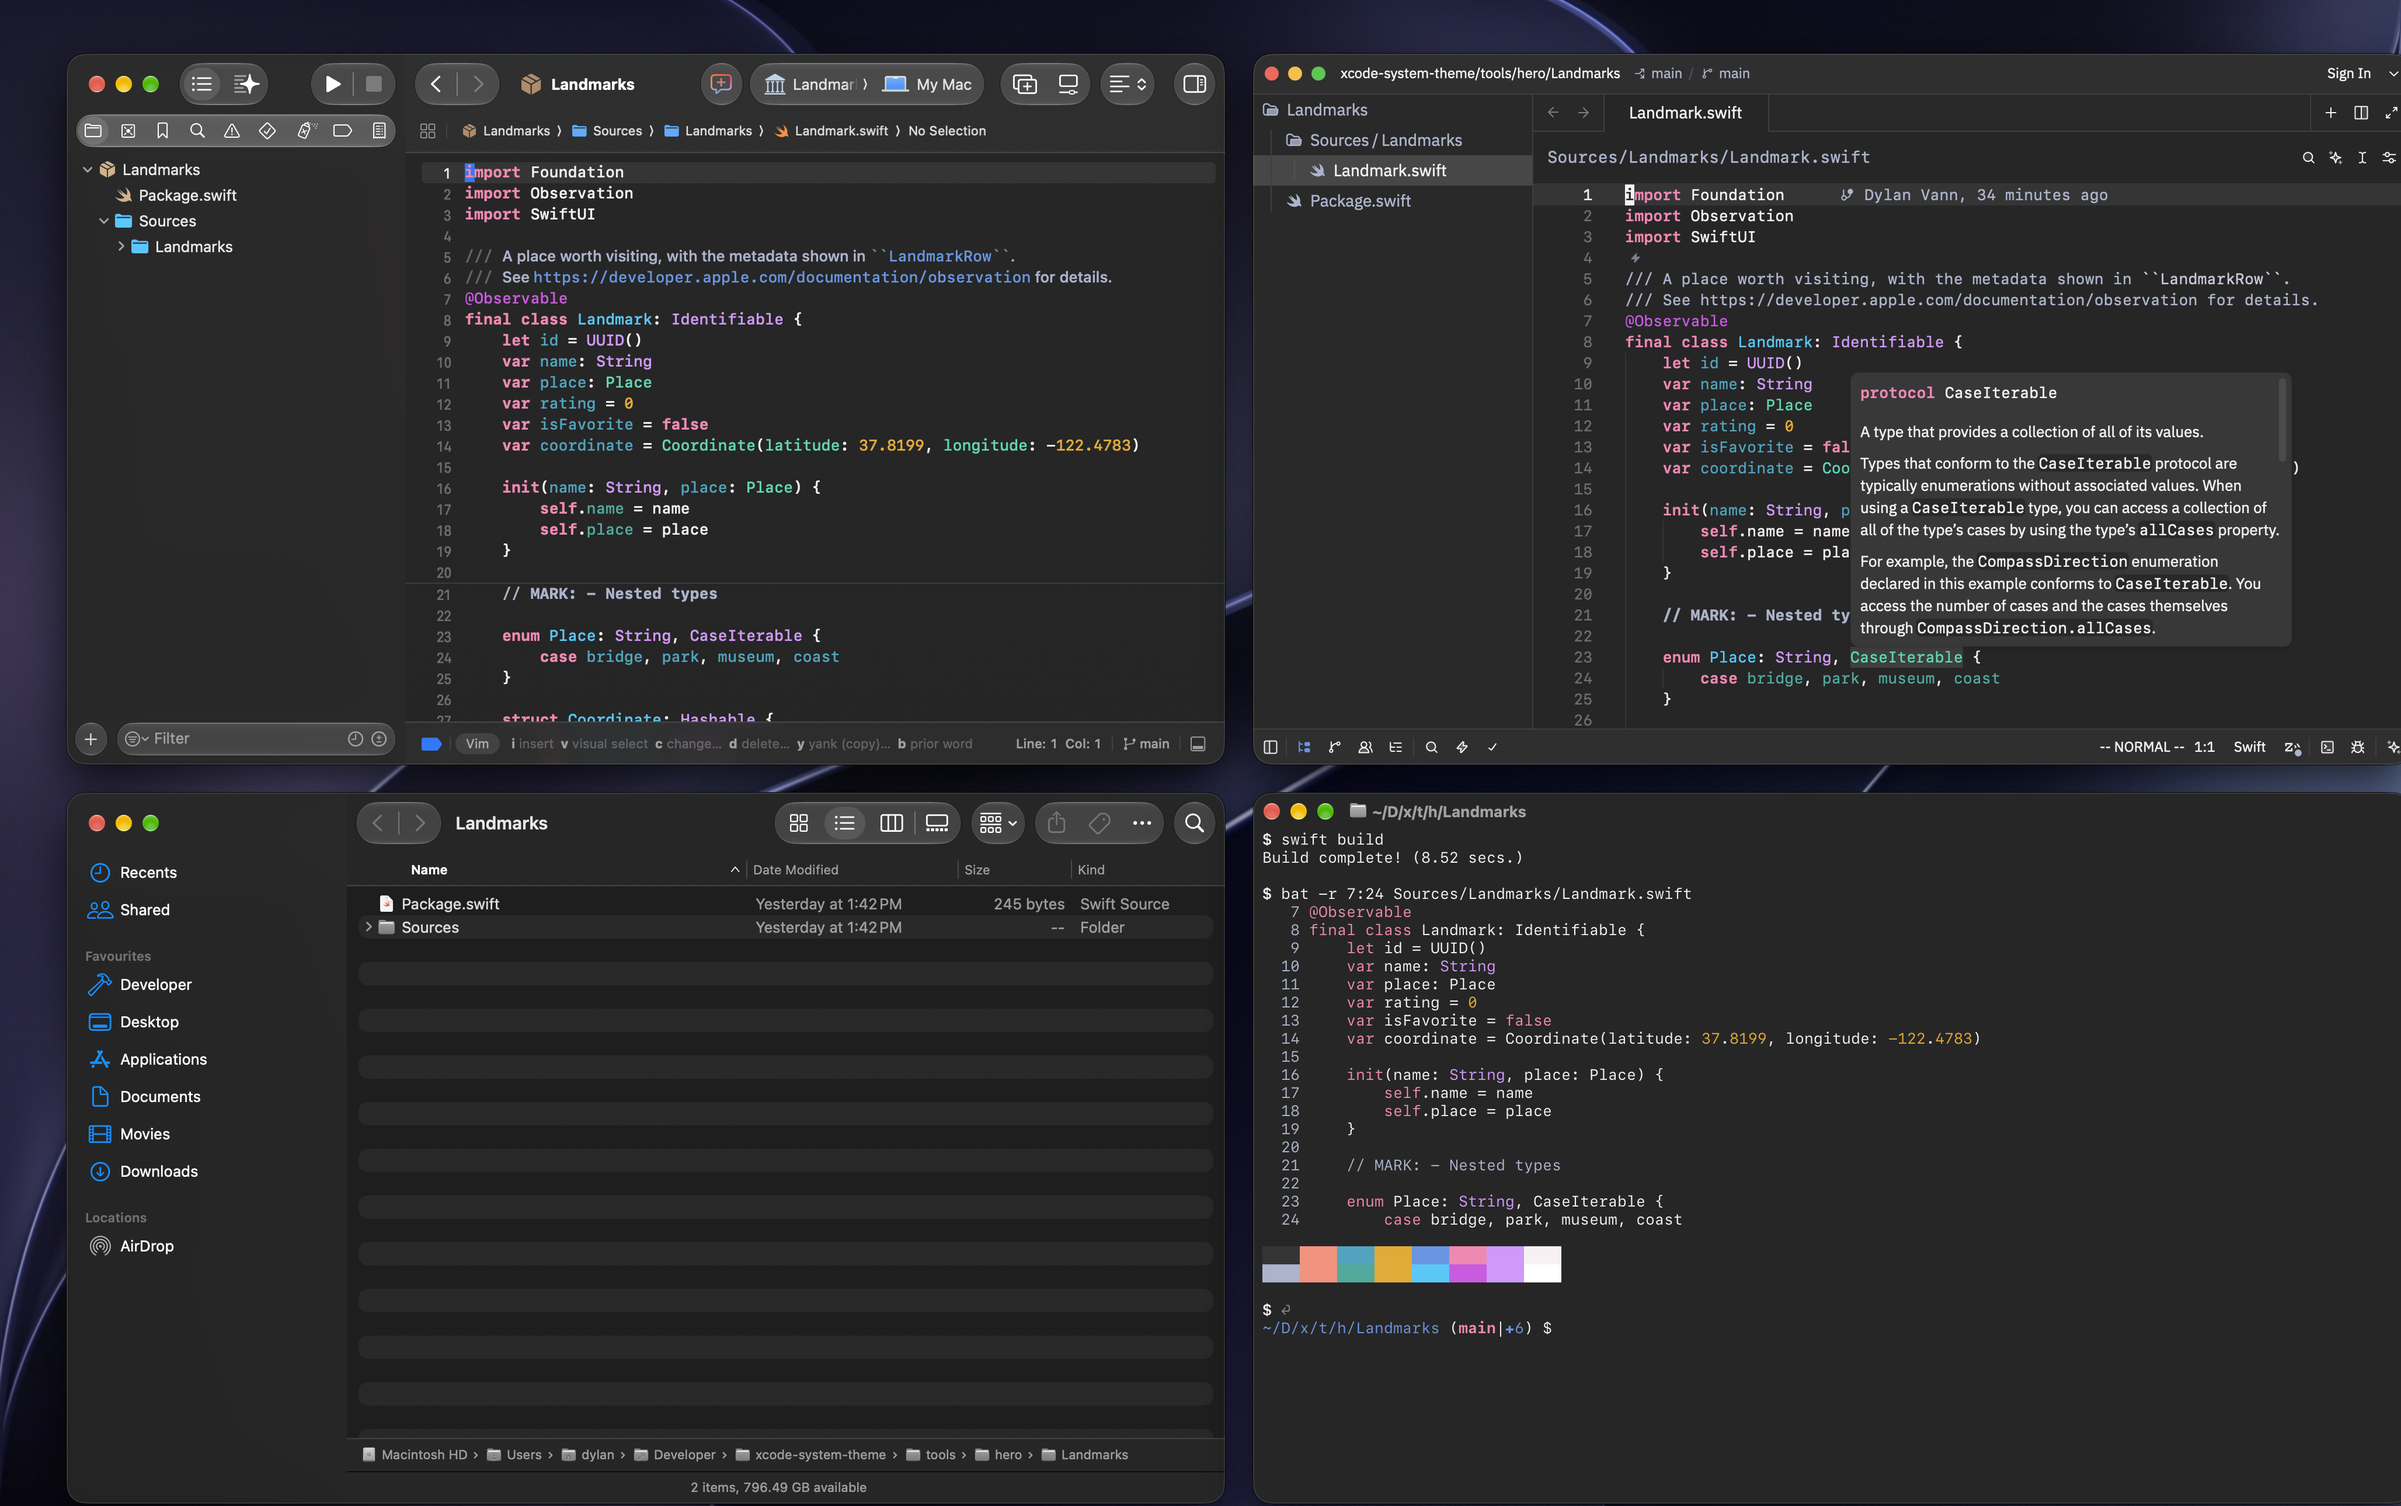
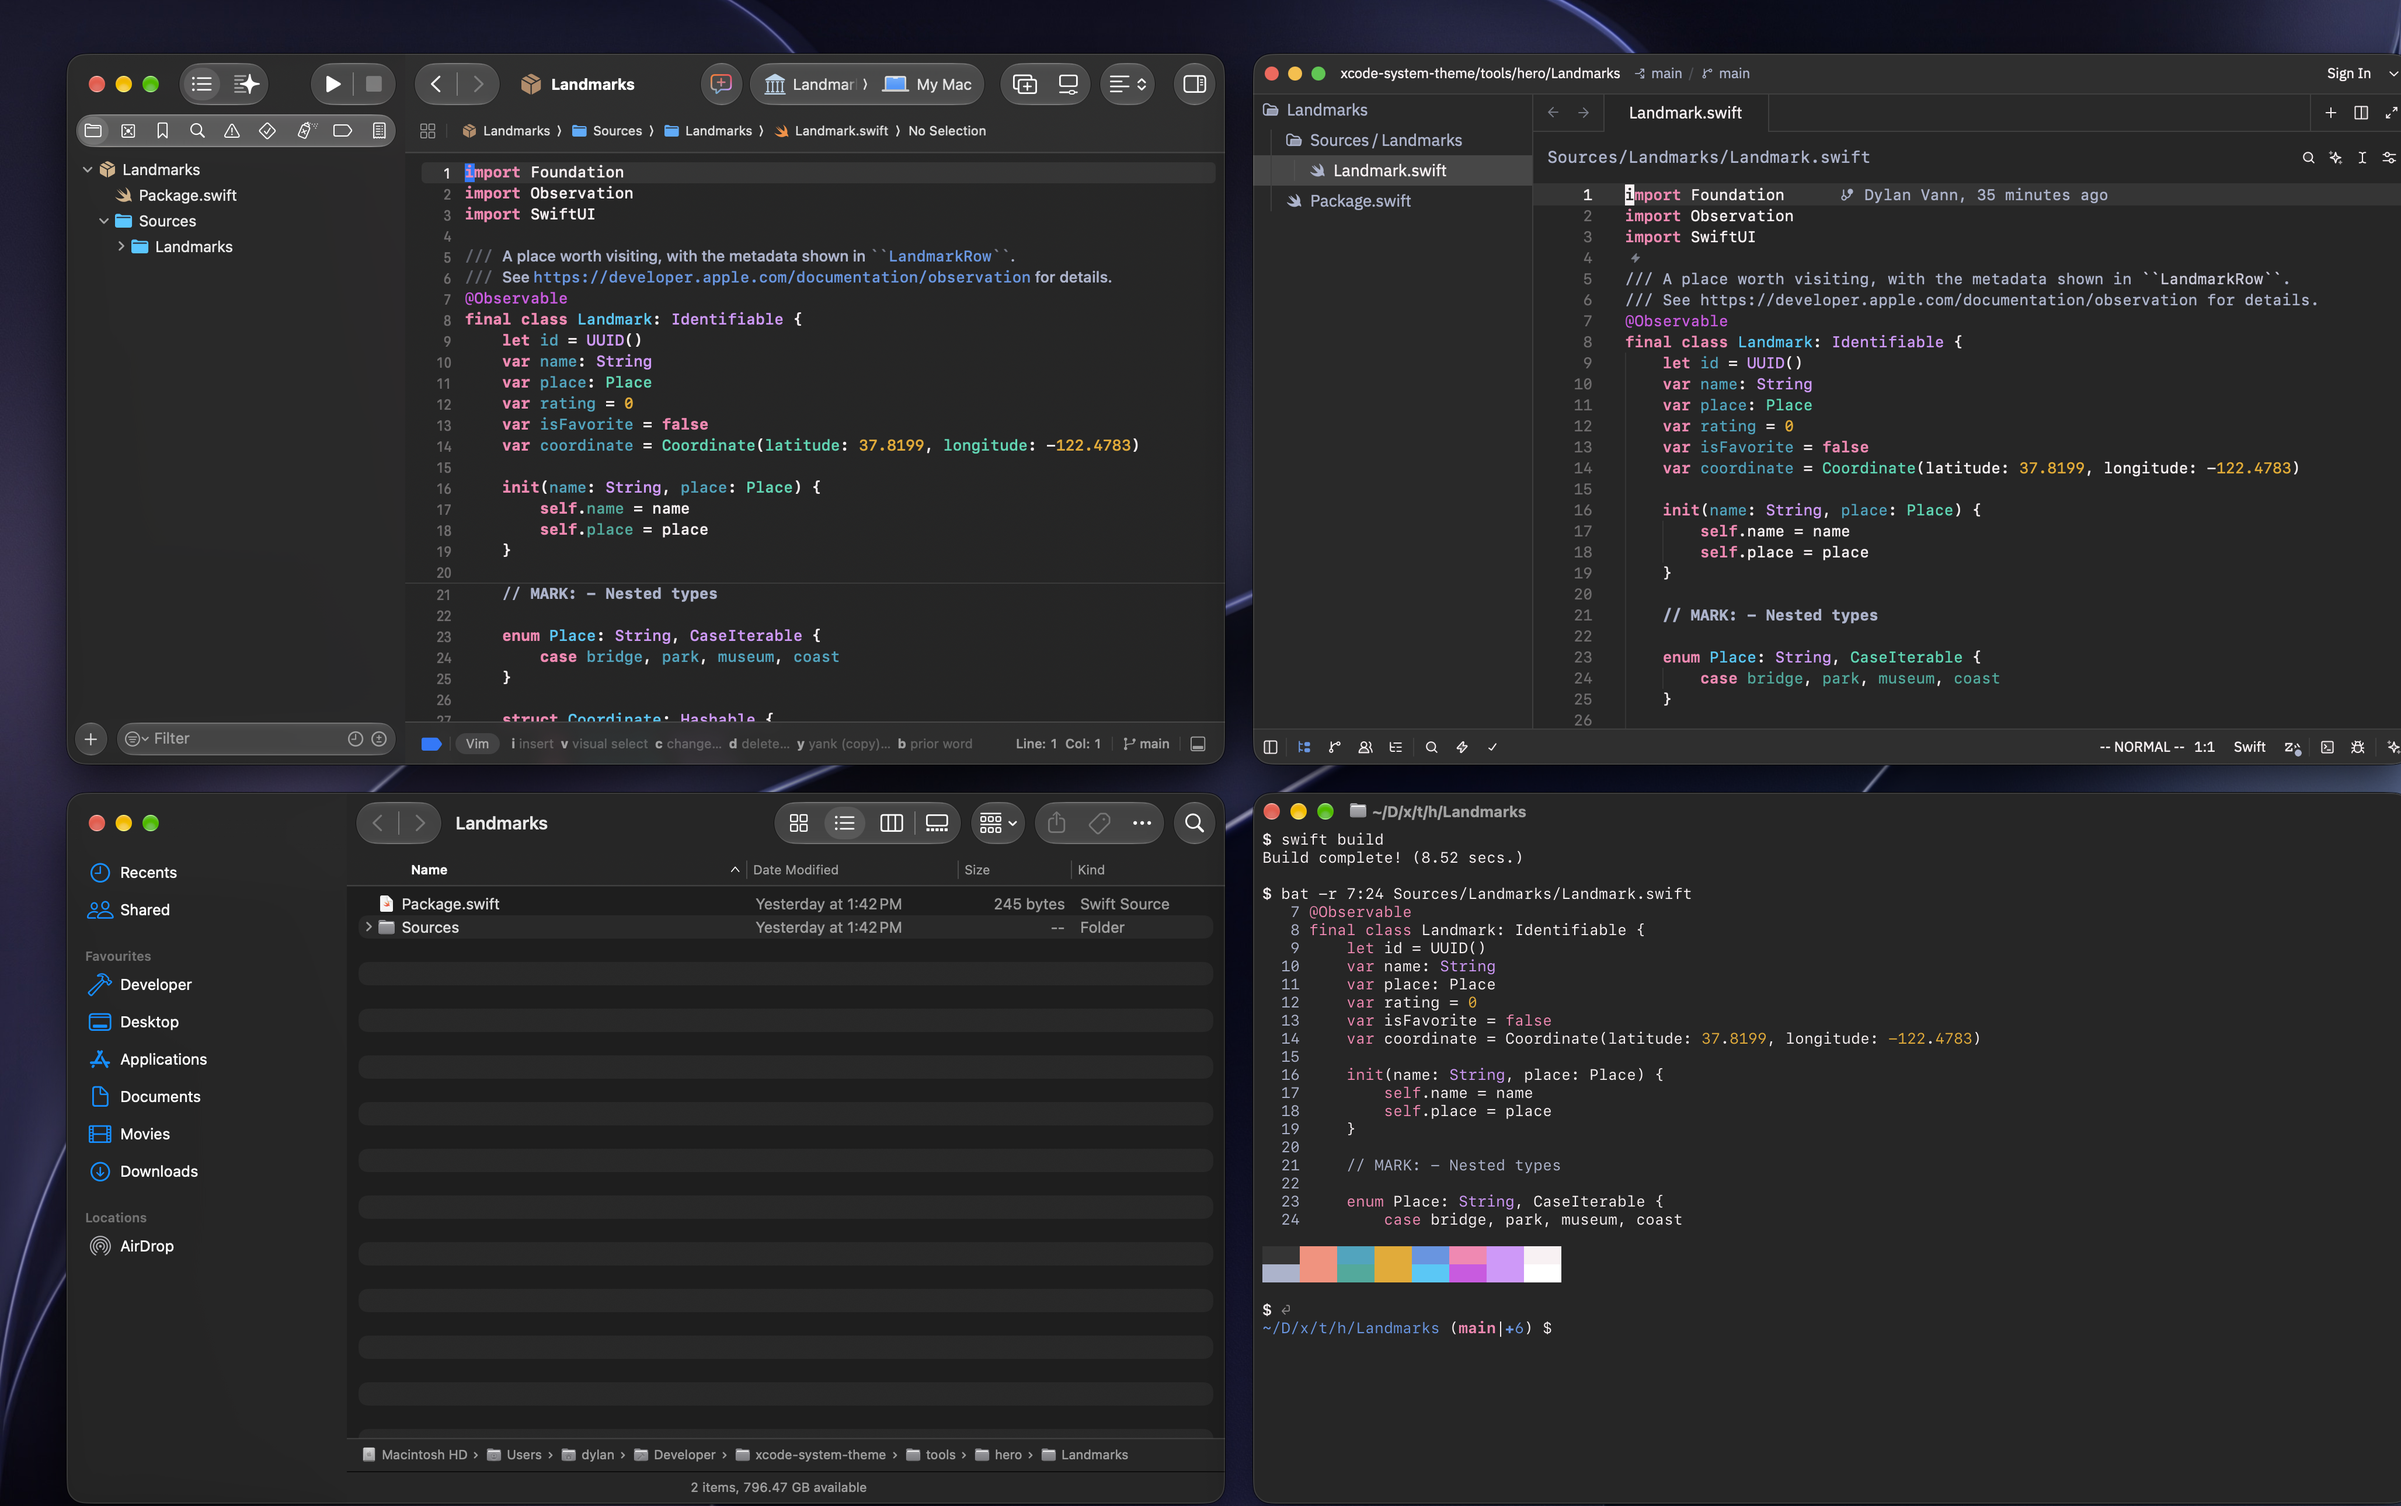
Park the pointer before hero captures so hover effects stay out of the shot

Changed region(s): [[0.7782, 0.2481, 0.965, 0.4651]]

diff --git a/tools/warpmouse.swift b/tools/warpmouse.swift
@@ -1,0 +1,5 @@
+import CoreGraphics
+// Move the mouse pointer to a point in screen coordinates: warpmouse <x> <y>
+let x = Double(CommandLine.arguments[1])!, y = Double(CommandLine.arguments[2])!
+CGWarpMouseCursorPosition(CGPoint(x: x, y: y))
+CGAssociateMouseAndMouseCursorPosition(1)

diff --git a/AGENTS.md b/AGENTS.md
@@ -62,6 +62,7 @@ Hard-won facts about how these themes are built and verified. Read before touchi
 - Capture by compositing, never by a full-screen grab. `screencapture -l <id>` without `-o` returns the window with its shadow as alpha. The shadow is a constant of macOS, 46 px left and right, 32 above, 60 below at 2x, the same for every window and size, so the placement on the canvas is grid position minus 23 and 16, times two for the 2x canvas, with no measuring. The composite is written at 2x as `hero-{mode}@2x.png` and halved for the README's `hero-{mode}.png`, which links to the 2x file. GitHub strips `target` attributes, so the link cannot force a new tab.
 - The 2x files carry 144 dpi metadata so Preview and Quick Look show them at one image pixel per device pixel; at the default 72 dpi they display at twice their size and look soft. Browsers ignore the metadata and scale images to fit, and the display itself runs a 4112 px buffer downsampled to a 3456 px panel, so no viewer shows the file sharper than at 50% zoom. A window capture matches the composite pixel for pixel, verified with `magick compare -metric AE`; if a shot looks blurry, it is the viewer. Windows can sit anywhere on screen; only their size matters.
 - The wallpapers are stored in the repo as `tools/hero/wallpaper-{light,dark}.jpg` at the display's native 2x resolution, captured once from the wallpaper window (owner `WindowManager`, titled `Wallpaper`, which excludes desktop icons). `hero.sh wallpaper` recaptures them; the wallpaper crossfade takes about 4 s, which is why they are not captured per run. `tools/winlist.swift` lists windows at every layer with bounds.
+- Park the mouse pointer in the gap between windows before capturing (`tools/warpmouse.swift`). The pointer itself is never captured, but hover effects are: a pointer left over Zed's editor produced a documentation popup in the shot once Zed was raised.
 - Raise each window immediately before capturing it. macOS 27 glass toolbars, Xcode's especially, are backdrops the compositor only renders while the window is unobscured; a window captured from behind another comes back with dither-noise blocks where its toolbar items sit. Frontmost-then-capture costs about 0.4 s per window and makes every window look active.
 - After switching appearance, apps re-render in about 1.5 s. Poll one window's mean brightness until two samples agree rather than sleeping; capture whichever appearance is current first so only one switch is needed, and restore the original appearance at the end. `capture` takes about 7 s for both appearances, most of it the switch and Finder's hidden-files toggle.
 - Never delete `.swiftpm` while Xcode has the package open; Xcode raises a modal about the vanished workspace file. Deleting `.build` is fine.
